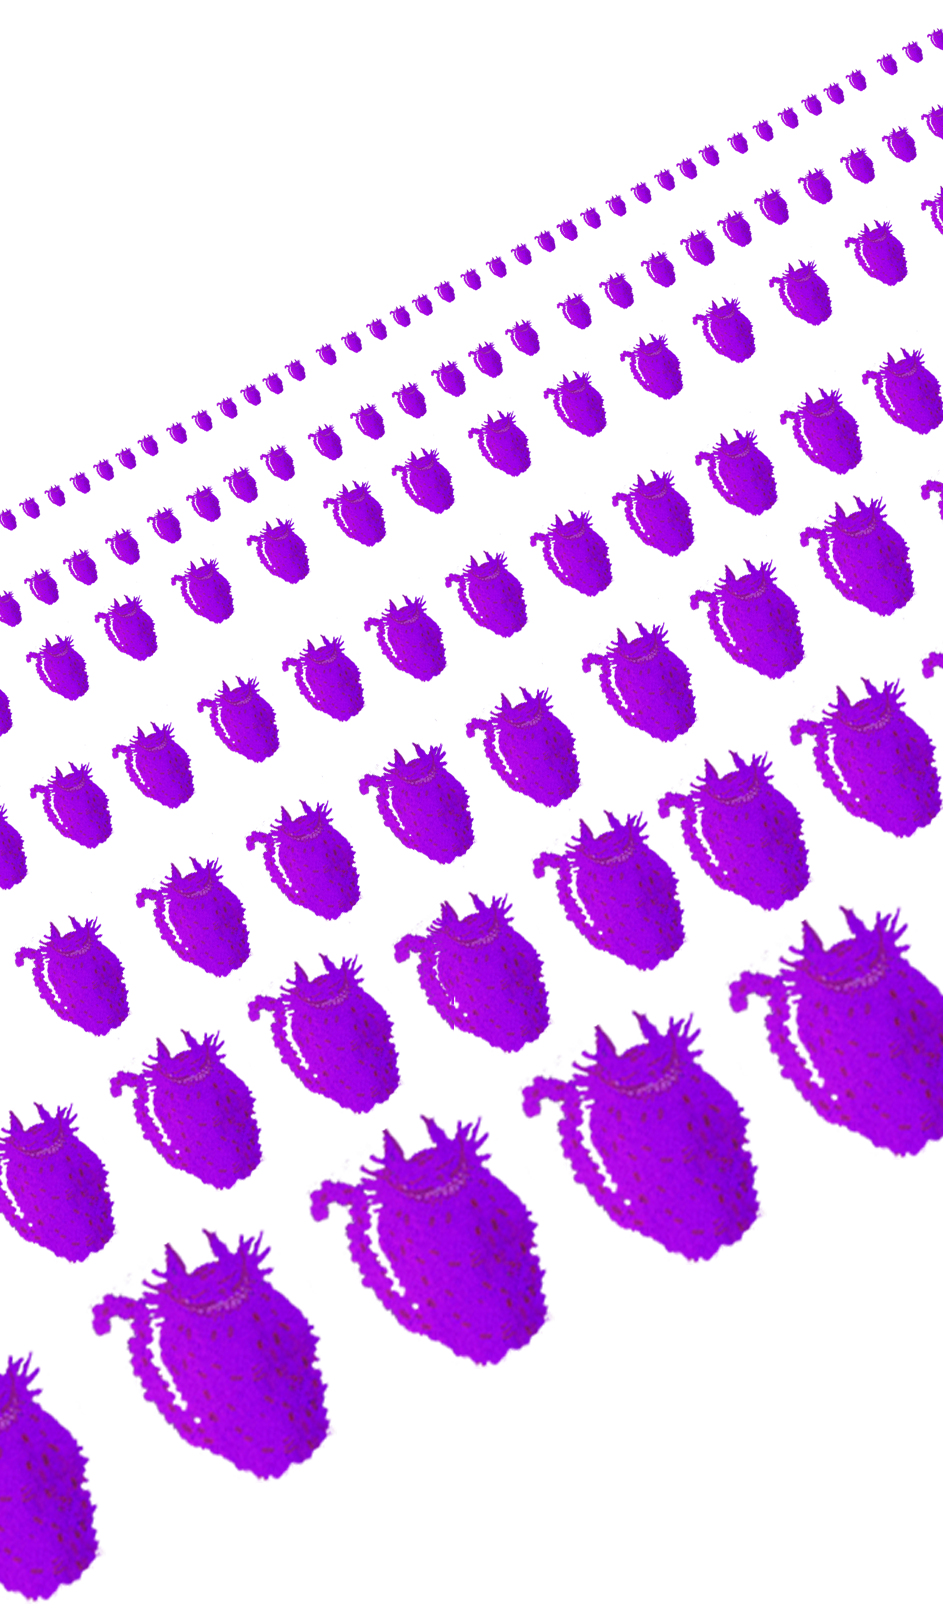
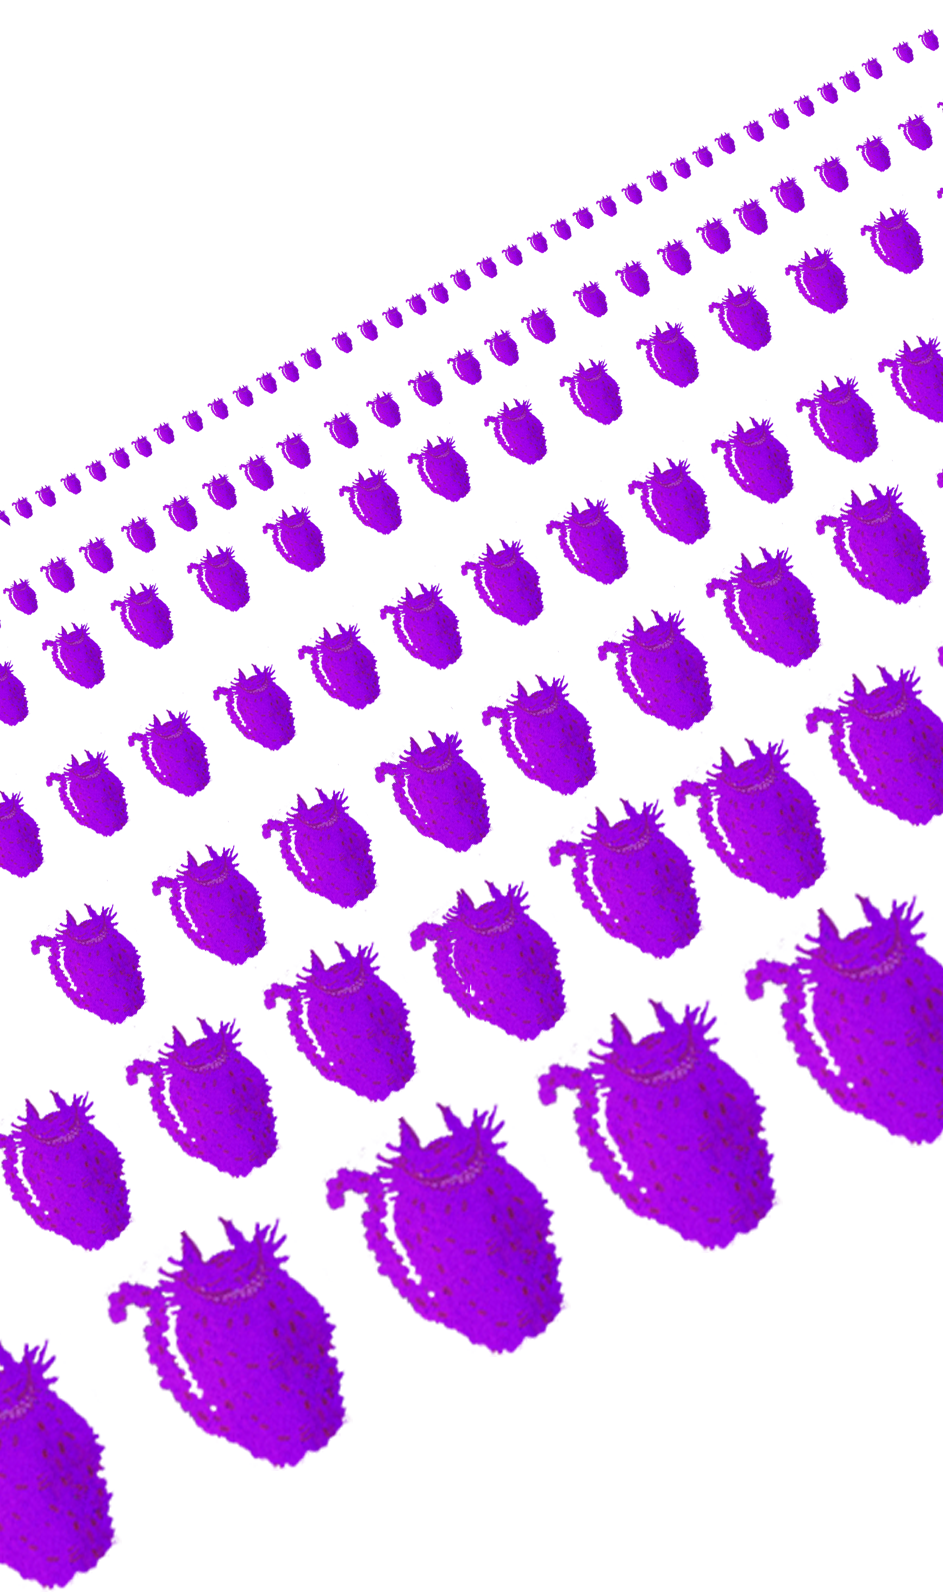
2nd

Changed region(s): [[0.0, 0.0, 1.0, 0.9234], [0.0, 0.831, 0.123, 1.0]]

diff --git a/index.html b/index.html
@@ -18,7 +18,7 @@
 		p {font-size: 18pt; margin: 0px; margin-top: 10px; left: 100px; font-family: 'Nanum Myeongjo', serif;}
 
 		.wrap {width: 900px; margin:auto;}
-		section {background: url(.jpg); overflow: hidden; background-size: cover; height: 15500px; position: relative;}
+		section {overflow: hidden; background-size: cover; height: 15500px; position: relative;}
 		section p {text-align: center; top: ; left: 300px;}
 		.intro {text-align: left; font-size: 20pt; margin-top: 630px; margin-left: 150px; line-height: 40px;}
 		.al {text-align: left; font-size: 15pt; margin-top: -20px; margin-left: 450px; line-height: 30px;}
@@ -68,16 +68,23 @@
 		.queen2 {width: 500px; display: block; position: absolute; top: 10830px; left: 380px;}
 		.soogun {width: 500px; display: block; position: absolute; top: 11270px; left: -50px;}
 
-		.back5 {width: 900px; display: block; position: absolute; top: 12350px; left: 0px;}
-		.angry {width: 630px; display: block; position: absolute; top: 12200px; left: -120px;}
-		.musa2 {width: 290px; display: block; position: absolute; top: 12100px; left: 540px;}
-		.musa3 {width: 370px; display: block; position: absolute; top: 12300px; left: 550px;}
-		.musa4 {width: 300px; display: block; position: absolute; top: 12750px; left: 350px;}
+		.back5 {width: 900px; display: block; position: absolute; top: 12450px; left: 0px;}
+		.angry {width: 630px; display: block; position: absolute; top: 12300px; left: -120px;}
+		.musa2 {width: 290px; display: block; position: absolute; top: 12200px; left: 540px;}
+		.musa3 {width: 370px; display: block; position: absolute; top: 12400px; left: 550px;}
+		.musa4 {width: 300px; display: block; position: absolute; top: 12850px; left: 350px;}
 
-		.cat4 {width: 900px; display: block; position: absolute; top: 13050px; left: 0px;}
-		.back6 {width: 900px; display: block; position: absolute; top: 14600px; left: -120px;}
-		.sleep {width: 580px; display: block; position: absolute; top: 14820px; left: 300px;}
-		.cat22 {width: 200px; display: block; position: absolute; top: 14970px; left: 500px;}
+		.cat4 {width: 900px; display: block; position: absolute; top: 13150px; left: 0px;}
+		.back6 {width: 900px; display: block; position: absolute; top: 14700px; left: -120px;}
+		.sleep {width: 580px; display: block; position: absolute; top: 14920px; left: 300px;}
+		.cat22 {width: 200px; display: block; position: absolute; top: 15070px; left: 500px;}
+
+		.ch1 {width: 40px; display: block; position: absolute; top: 1980px; left: 0px;}
+		.ch2 {width: 40px; display: block; position: absolute; top: 4050px; left: 0px;}
+		.ch3 {width: 40px; display: block; position: absolute; top: 5930px; left: 0px;}
+		.ch4 {width: 40px; display: block; position: absolute; top: 7600px; left: 0px;}
+		.ch5 {width: 40px; display: block; position: absolute; top: 9940px; left: 0px;}
+		.ch6 {width: 40px; display: block; position: absolute; top: 11760px; left: 0px;}
 
 		@keyframes ko{ 
 			to{ transform: rotate(360deg); } }
@@ -132,6 +139,7 @@
 			<br> 난관을 잘 대처해나간다.</p>
 			<img src="tree.png" class="tree">
 			<img src="cat.png" class="cat">
+			<img src="ch1.png" class="ch1">
 			<p class="jang1"> 앨리스는 나무그늘에서 쉬던 중 보게 된 알록달록
 			<br> 신비한 고양이를 따라 굴 속으로 들어간다.
 			<br> 굴은 미끄럼틀처럼 가팔랐고
@@ -141,6 +149,7 @@
 			<img src="fish.png" class="fish">
 			<img src="fall.png" class="fall">
 			<img src="iu1.png" class="iu1">
+			<img src="ch2.png" class="ch2">
 			<p class="jang2"> 바닷물을 먹은 앨리스는 몸이 커졌고,
 			<br> 어찌할 수 없게 된 앨리스가 눈물을 흘리며
 			<br> 울자 웅덩이가 생겼다.
@@ -153,6 +162,7 @@
 			<img src="fan.png" class="fan">
 			<img src="cry.png" class="cry">
 			<img src="float.png" class="float">
+			<img src="ch3.png" class="ch3">
 			<p class="jang3"> 앨리스는 웅덩이에서 빠져나와
 			<br>공작부인의 집에 들어간다.
 			<br>부인의 집에는 말하는 꽃들이 핀 정원이 있다.
@@ -165,6 +175,7 @@
 			<img src="iu2.png" class="iu2">
 			<img src="flower.png" class="flower">
 			<img src="wow.png" class="wow">
+			<img src="ch4.png" class="ch4">
 			<p class="jang4">앨리스는 곧장 공작부인을 좇아
 			<br>여왕의 크리켓 경기장에 도착한다.
 			<br>여왕은 아무에게나 화를 내며 목을 치라고 명령한다.
@@ -175,6 +186,7 @@
 			<img src="queen.png" class="queen">
 			<img src="musa.png" class="musa">
 			<img src="lookback2.png" class="lookback2">
+			<img src="ch5.png" class="ch5">
 			<p class="jang5">여왕은 재판을 시작하자 마자 유죄를 선고하려 한다.
 			<br> 하지만 고양이는 재판의 진행 절차에 따라
 			<br> 증언을 들어야 한다며 앨리스를 증인으로 데려온다. </p>
@@ -183,6 +195,7 @@
 			<img src="cat2.png" class="cat2">
 			<img src="queen2.png" class="queen2">
 			<img src="soogun.png" class="soogun">
+			<img src="ch6.png" class="ch6">
 			<p class="jang6"> 증인으로 나선 앨리스는 여왕이 별다른 근거도 없이
 			<br>부인을 처형하려는 것에 반대한다.
 			<br>재판 끝에 여왕이 배심원의 평결도 듣지 않고
